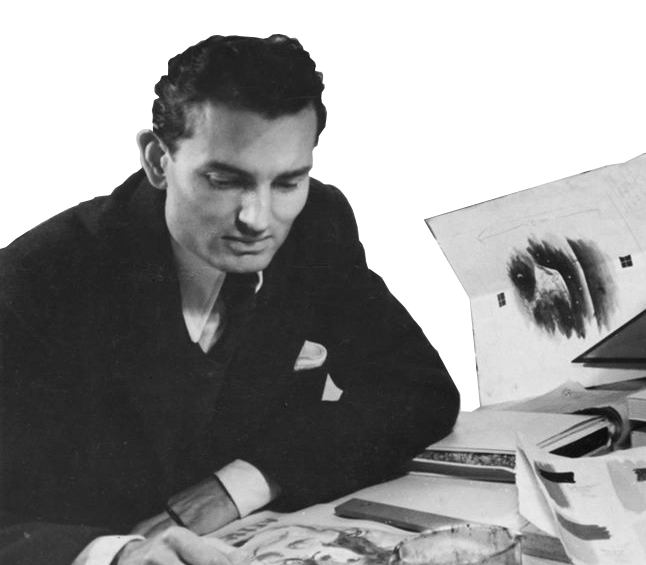
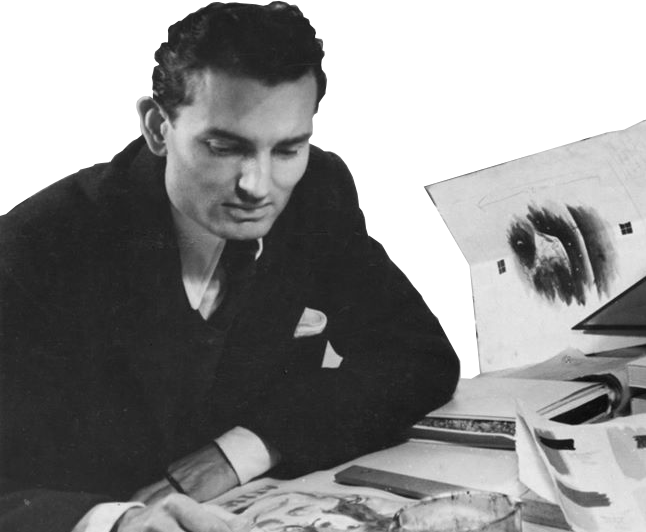
modifiche

diff --git a/campisti.html b/campisti.html
@@ -1,0 +1,111 @@
+<!DOCTYPE html>
+<html lang="it">
+<link rel="stylesheet" href="campisti.css">
+<head>
+    <meta charset="UTF-8">
+    <meta http-equiv="X-UA-Compatible" content="IE=edge">
+    <meta name="viewport" content="width=device-width, initial-scale=1.0">
+    <title>Campisti</title>
+    <link rel="stylesheet" href="css/campisti.css">
+
+    <script src="js/script.js" defer></script>
+</head>
+<body>
+    <header>
+        <nav>
+            <ul>
+                <p><a href="campografico.html">CAMPO GRAFICO</a></p>
+                <p><a href="campisti.html">CAMPISTI</a></p>
+                <a href="index.html"><img src="immagini/marchio.png" alt="marchio"></a>
+                <p><a href="archivio.html">ARCHIVIO</a></p>
+                <p><a href="associazione.html">ASSOCIAZIONE</a></p>
+            </ul>
+        </nav>
+    </header>
+    <main>
+        <div class="hero">
+            <div class="info">
+                <h1>CAMPISTI</h1>
+                <p>Si intendevano sia i fondatori che tutti coloro che hanno partecipato 
+                    alla realizzazione e produzione di tutti i numeri della Rivista.
+                </p>
+            </div>
+            <img src="immagini/campisti/campisti.png" alt="campisti">
+        </div>
+        <div class="descrizione">
+            <p>Campo Grafico si distaccò dagli stilemi in uso in Italia e si avvicinò 
+                alle correnti dell'avanguardia europea, su tutte il Bauhaus tedesco. 
+                In un periodo in cui l'arte grafica stava estenuandosi in una elegante 
+                staticità neoclassica, Campo Grafico avanzò ardite soluzioni che 
+                scavalcavano le prassi ormai ingessate della vecchia tradizione artigianale.
+            </p>
+            <h3>I FONDATORI FURONO  IL PITTORE ATTILIO ROSSI E IL GRAFICO CARLO DRADI, ATTIVI 
+                ENTRAMBI NEL CARTELLONISMO PUBBLICITARIO. 
+            </h3>
+        </div>
+        <p class="fondatori">
+            L'intenzione dei fondatori era applicare alla grafica i temi moderni già recepiti 
+            in Italia nell'arte figurativa e nell'architettura. 
+        </p>
+        <div class="fontatori-conteiner">
+            <div class="rossi">
+                <p>ATTILIO ROSSI</p>
+                <p class="specializzazione">Pittore e grafico</p>
+                <img src="immagini/campisti/attilio rossi.png" alt="rossi">
+            </div>
+            <div class="dradi">
+                <p>CARLO DRADI</p>
+                <p class="specializzazione">Grafico e operatore culturale</p>
+                <img src="immagini/campisti/dradi.png" alt="dradi">
+            </div>
+        </div>
+        <div class="preview">
+            <div class="fondatori-preview active">
+                <i class="fas fa-times"></i>
+                <div class="rossi-preview">
+                    <div class="img">
+                        <img src="immagini/campisti/attilio rossi.png" alt="rossi">
+                    </div>
+                    <div class="specifiche">
+                        <p>ATTILIO ROSSI</p>
+                        <p class="specializzazione">Pittore e grafico</p>
+                        <p class="date">DATE DI ESISTENZA</p>
+                        <div class="info-rossi">
+                            <p>Luogo di nascita:<br>Data di nascita:<br>Luogo di morte:<br>Data di morte:</p>
+                            <p>Albairate (Milano) <br>25 marzo 1909 <br> Milano <br>6 aprile 1994</p>
+                        </div>
+                        <p class="testo">Nel 1925 iniziò a lavorare come tipografo e impaginatore all’Istituto
+                            grafico Bertieri e Vanzetti di Milano. Nella prima metà degli anni Trenta i suoi 
+                            riferimenti culturali erano il Bauhaus di Walter Gropius, le teorie di Le Corbusier,
+                            Piet Mondrian e Pablo Picasso. Nel 1933 fu tra i fondatori della rivista Campo grafico, 
+                            concepita come una continuazione ideale del Bauhaus.
+                        </p>
+                    </div>
+                </div>
+            </div>
+            <div class="fondatori-preview">
+                <i class="fas fa-times"></i>
+                <div class="dradi-preview">
+                    <div class="img">
+                        <img src="immagini/campisti/dradi.png" alt="dradi">
+                    </div>
+                    <div class="specifiche">
+                        <p>CARLO DRADI</p>
+                        <p class="specializzazione">Grafico e operatore culturale</p>
+                        <p class="date">DATE DI ESISTENZA</p>
+                        <div class="info-dradi">
+                            <p>Luogo di nascita:<br>Data di nascita:<br>Luogo di morte:<br>Data di morte:</p>
+                            <p>Milano <br>1908 <br> Milano <br>1982</p>
+                        </div>
+                        <p class="testo">Carlo Dradi, grafico e operatore culturale, è stato particolarmente 
+                            attivo dai primi anni ’30 a tutti i ’60. Tra i fondatori di «Campo Grafico», la 
+                            nota rivista di “estetica e tecnica grafica“, e del Centro di Studi Grafici (CSG) 
+                            ma anche direttore di «Linea Grafica».È stato tra i fondatori di Aiap - Associazione 
+                            italiana design della comunicazione visiva.
+                        </p>
+                    </div>
+                </div>
+            </div>  
+        </div>
+    </main>
+</body>

diff --git a/css/campisti.css b/css/campisti.css
@@ -1,0 +1,201 @@
+body{
+    margin: 0;
+    padding: 0;
+    background-color:white;
+    font-family: Inter, Jost, Arial, Helvetica, sans-serif;
+}
+
+header a {
+    text-decoration: none;
+    color: #000000;
+}
+
+header a:hover{
+    font-weight: bold;
+}
+
+header {
+    display: flex;
+    justify-content: center;
+    align-items: center;
+    padding: 20px;
+}
+
+header p {
+    margin: 0;
+    font-size: 10pt;
+    text-transform: uppercase;
+}
+
+header nav ul {
+    margin:0;
+    padding: 0;
+    list-style-type: none;
+    display: flex;
+    gap: 150px;
+}
+
+header img{
+    height: 40px;
+}
+
+
+.hero img{
+    display: flex;
+    max-width: 70%;
+    margin-left: 13rem;
+}
+
+.info{
+    margin-left: 3rem;
+    margin-top: 10rem;
+    padding-left: 5rem;
+    display: flex;
+}
+
+.info h1{
+    color: rgb(185, 41, 23);
+}
+
+.info p{
+    padding-left: 50rem;
+    max-width: 250px;
+}
+
+.descrizione p{
+    max-width: 700px;
+    margin: 8rem 25rem 0 25rem; 
+}
+
+.descrizione h3{
+    max-width: 700px;
+    margin: 5rem 25rem 0 25rem; 
+}
+
+.fondatori{
+    max-width: 700px;
+    margin: 2rem 25rem 0 25rem;
+}
+
+.fontatori-conteiner{
+    max-width: 700px;
+    margin: 0 auto;
+    padding: 3rem 2rem;
+    display: grid;
+    grid-template-columns: repeat(auto-fit, minmax(2rem, 1fr));
+    gap: 2rem;
+}
+
+.rossi{
+    max-width: 320px;
+    max-height: 320px;
+    background-color: rgb(240, 240, 240);
+    border-radius: 10px;
+    padding: 0.5rem;
+    cursor: pointer;
+}
+
+.rossi p{
+    font-size:large;
+    margin-top: 0.5rem;
+}
+
+.rossi .specializzazione{
+    font-size: small;
+    color: rgb(185, 41, 23);
+    margin: -1rem 0 0 0;
+}
+
+.rossi img {
+    max-width: 334px;
+    margin-left: -0.5rem;
+    margin-top: 0.5rem;
+    border-radius: 10px;
+
+}
+
+.dradi{
+    max-width: 320px;
+    max-height: 320px;
+    background-color: rgb(240, 240, 240);
+    border-radius: 10px;
+    padding: 0.5rem;
+    cursor: pointer;
+}
+
+.dradi p{
+    font-size:large;
+    margin-top: 0.5rem;
+}
+
+.dradi .specializzazione{
+    font-size: small;
+    color: rgb(185, 41, 23);
+    margin: -1rem 0 0 0;
+}
+
+.dradi img {
+    max-width: 325px;
+    margin-top: 0.5rem;
+}
+
+.rossi-preview{
+    display: flex;
+    background-color: rgb(240, 240, 240);
+    border-radius: 10px;
+}
+
+.info-rossi{
+    display: flex;
+}
+
+.dradi-preview{
+    display: flex;
+    background-color: rgb(240, 240, 240);
+    border-radius: 10px;
+}
+
+.info-dradi{
+    display: flex;
+}
+
+.preview{
+    position: fixed;
+    top: 0;
+    left:0;
+    height: 100%;
+    background-color: rgba(0, 0, 0, .8);
+    display: flex;
+    align-items: center;
+    justify-content: center;
+}
+
+.fondatori-preview{
+    display: none;
+    padding: 2rem;
+    position: relative;
+    margin: 2rem;
+    max-width: 80%;
+}
+
+.preview .fondatori-preview.active{
+    display: inline-block;
+}
+
+.preview .fondatori-preview.active img{
+    margin: 3rem 3rem 0 0;
+    margin-bottom: -0.25rem;
+    border-radius: 10px;
+}
+
+.preview .fondatori-preview.active .fa-times{
+    clip-path: polygon(20% 0%, 0% 20%,30% 50%, 0% 80%,20% 100%, 50% 70%, 80% 100%, 100% 80%, 70% 50%, 100% 20%, 80% 0%, 50% 30%);
+    color: rgb(187, 187, 187);
+}
+
+.preview .fondatori-preview.active .fa-times{
+    position: absolute;
+    top: 1rem;
+    right: 1.5rem;
+    cursor: pointer;
+}

diff --git a/css/stile.css b/css/stile.css
@@ -64,7 +64,7 @@ header img{
 .hero img{
     max-width: 100%;
     padding-top: 3rem;
-    padding-left: 120px;
+    padding-left: 8rem;
 }
 
 .descrizione p{

diff --git a/index.html b/index.html
@@ -172,5 +172,4 @@
             </div>
         </div>
     </footer>
-
 </body>
